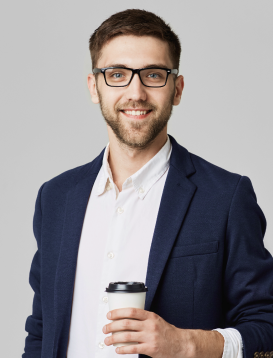
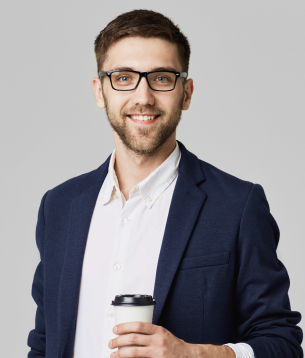
media for section teams

diff --git a/css/style.css b/css/style.css
@@ -1133,9 +1133,19 @@ img {
     text-align: center;
     flex-basis: 30%; }
   .teams__idea {
-    position: relative; }
+    position: relative;
+    display: flex;
+    justify-content: center; }
+  .teams__image {
+    display: flex;
+    justify-content: center;
+    width: 272px;
+    overflow: hidden; }
   .teams__card {
     position: relative; }
+    .teams__card-image {
+      width: 304px;
+      max-width: 304px; }
     .teams__card-title {
       padding-top: 1.8rem;
       margin-bottom: 0.6rem; }
@@ -1162,7 +1172,7 @@ img {
     display: flex;
     align-items: center;
     justify-content: center;
-    margin-left: 18px;
+    margin-left: -135px;
     margin-top: -35px; }
   .teams__pricetag {
     background-color: #E3B873;
@@ -1411,16 +1421,7 @@ img {
   .logo {
     margin-left: 4rem; }
   .hero__content {
-    margin-left: 2.5rem; }
-  .teams__row {
-    flex-direction: column;
-    align-items: center; }
-  .teams__icon {
-    margin-left: 80px; }
-  .teams__col-32 {
-    margin-bottom: 4rem; }
-  .teams__icon {
-    margin-left: -35px; } }
+    margin-left: 2.5rem; } }
 
 @media screen and (max-width: 1200px) {
   .nav {
@@ -1428,7 +1429,9 @@ img {
     .nav__item {
       margin-right: 1.5rem; }
   .contacts__phone {
-    margin-left: 2rem; } }
+    margin-left: 2rem; }
+  .teams__col-32 {
+    flex-basis: 34%; } }
 
 @media screen and (max-width: 992px) {
   .hero {
@@ -1468,7 +1471,12 @@ img {
     max-width: 30rem; }
   .customers__pricetag {
     padding: 0.214rem 0.7rem;
-    font-size: 1rem; } }
+    font-size: 1rem; }
+  .teams__col-32 {
+    flex-basis: 45%;
+    margin-bottom: 4.64rem; }
+  .teams__row {
+    flex-wrap: wrap; } }
 
 @media screen and (max-width: 760px) {
   .row {
@@ -1689,13 +1697,19 @@ img {
     margin-left: 1rem; }
   .teams {
     margin-top: 0rem; }
-    .teams__card {
-      max-height: 32.5rem; }
-      .teams__card-text {
-        margin-top: -8.2rem;
-        max-width: 20rem; }
-      .teams__card-title {
-        font-size: 1.45rem; }
+    .teams__image {
+      width: 304px; }
+    .teams__card-image {
+      padding: 0; }
+    .teams__card-text {
+      margin-top: -6.7rem;
+      max-width: 20rem; }
+    .teams__card-title {
+      font-size: 1.45rem; }
+    .teams__idea {
+      justify-content: flex-end; }
+    .teams__icon {
+      margin-left: -269px; }
     .teams__profession {
       font-size: 1.45rem;
       padding-bottom: 2.1rem; }
@@ -1703,14 +1717,10 @@ img {
       font-size: 1.1rem;
       padding: 1.2rem 1.7rem; }
     .teams__col-32 {
-      width: 95%;
-      text-align: end;
+      width: 93%;
       margin-bottom: 9.3rem; }
     .teams__text--section {
       margin-bottom: 3.8rem; }
-    .teams__icon {
-      margin-left: 25px;
-      margin-top: -20px; }
     .teams__content {
       display: none; } }
 

diff --git a/index.html b/index.html
@@ -702,7 +702,9 @@
             <div class="card teams__card wow fadeInUp" data-wow-delay="0.6s">
               <div class="teams__idea">
                 <div class="teams__icon"><img src="img/idea-1.png" alt="idea"></div>
-                <div class="teams__image"><img src="img/foto/team-1.png" alt="фото" class="card__image teams__card-image"></div>
+                <div class="teams__image">
+                  <img src="img/foto/team-1.png" alt="фото" class="card__image teams__card-image">
+                </div>
               </div>
               <div class="teams__card-text">
                 <h3 class="card__title teams__card-title">Алексей Колмаков</h3>
@@ -723,7 +725,7 @@
             <div class="card teams__card wow fadeInUp" data-wow-delay="0.4s">
               <div class="teams__idea">
                 <div class="teams__icon"><img src="img/idea-2.png" alt="idea"></div>
-                <div class="teams__image"><img src="img/foto/team-2.png" alt="Минимальный" class="card__image"></div>
+                <div class="teams__image"><img src="img/foto/team-2.png" alt="Минимальный" class="card__image teams__card-image"></div>
               </div>
               <div class="teams__card-text">
                 <h3 class="card__title teams__card-title">Алиса Сухорукова</h3>
@@ -744,7 +746,7 @@
             <div class="card teams__card wow fadeInUp" data-wow-delay="0.2s">
               <div class="teams__idea">
                 <div class="teams__icon"><img src="img/idea-3.png" alt="idea"></div>
-                <div class="teams__image"><img src="img/foto/team-3.png" alt="Минимальный" class="card__image"></div>
+                <div class="teams__image"><img src="img/foto/team-3.png" alt="Минимальный" class="card__image teams__card-image"></div>
               </div>
               <div class="teams__card-text">
                 <h3 class="card__title teams__card-title">Давид Волынев</h3>

diff --git a/sass/_media.sass b/sass/_media.sass
@@ -6,16 +6,6 @@
   .hero
     &__content
       margin-left: 2.5rem
-  .teams
-    &__row
-      flex-direction: column
-      align-items: center
-    &__icon
-      margin-left: 80px
-    &__col-32
-      margin-bottom: 4rem
-    &__icon
-      margin-left: -35px
 @media screen and ( max-width: 1200px )
   .nav
     margin-left: 4rem
@@ -24,6 +14,9 @@
   .contacts
     &__phone
       margin-left: 2rem
+  .teams
+    &__col-32
+      flex-basis: 34%
 @media screen and ( max-width: 992px )
   .hero
     padding-left: 4rem
@@ -70,6 +63,12 @@
     &__pricetag
       padding: 0.214rem 0.7rem
       font-size: 1rem
+  .teams
+    &__col-32
+      flex-basis: 45%
+      margin-bottom: 4.64rem
+    &__row
+      flex-wrap: wrap
 @media screen and ( max-width: 760px )
   .row
     flex-direction: column
@@ -217,7 +216,7 @@
         &--down
           margin-top: 5.3rem
     &__policy
-      flex-basis: 78%;
+      flex-basis: 78%
       margin-top: 2.3rem
       margin-bottom: 5.5rem
       font-size: 1.36rem
@@ -292,14 +291,20 @@
       margin-left: 1rem
   .teams
     margin-top: 0rem
+    &__image
+      width: 304px
     &__card
       &-image
-      max-height: 32.5rem
+        padding: 0
       &-text
-        margin-top: -8.2rem
+        margin-top: -6.7rem
         max-width: 20rem
       &-title
         font-size: 1.45rem
+    &__idea
+      justify-content: flex-end
+    &__icon
+      margin-left: -269px
     &__profession
       font-size: 1.45rem
       padding-bottom: 2.1rem
@@ -307,15 +312,11 @@
       font-size: 1.1rem
       padding: 1.2rem 1.7rem
     &__col-32
-      width: 95%
-      text-align: end
+      width: 93%
       margin-bottom: 9.3rem
     &__text
       &--section
         margin-bottom: 3.8rem
-    &__icon
-      margin-left: 25px
-      margin-top: -20px
     &__content
       display: none
 @media screen and ( max-height: 560px )

diff --git a/sass/templates/_teams.sass b/sass/templates/_teams.sass
@@ -16,8 +16,18 @@
     flex-basis: 30%
   &__idea
     position: relative
+    display: flex
+    justify-content: center
+  &__image
+    display: flex
+    justify-content: center
+    width: 272px
+    overflow: hidden
   &__card
     position: relative
+    &-image
+      width: 304px
+      max-width: 304px
     &-title
       padding-top: 1.8rem
       margin-bottom: 0.6rem
@@ -44,7 +54,7 @@
     display: flex
     align-items: center
     justify-content: center
-    margin-left: 18px
+    margin-left: -135px
     margin-top: -35px
   &__pricetag
     background-color: $primary
